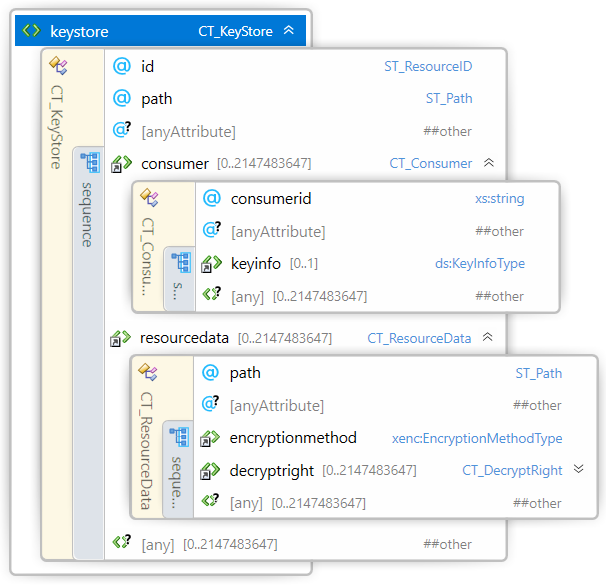
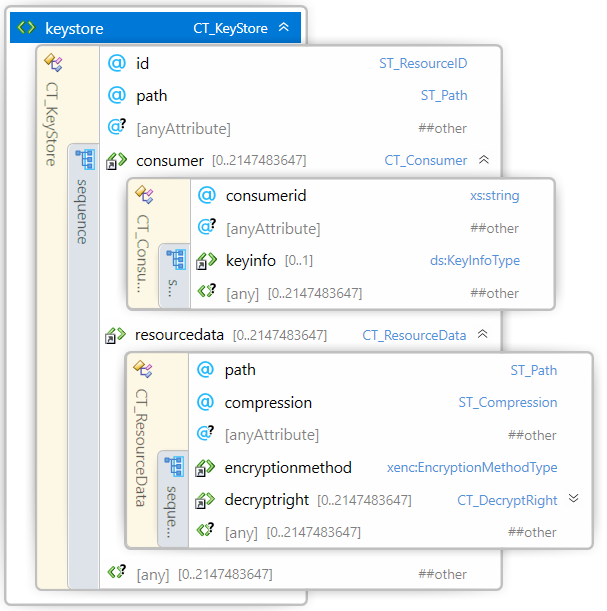
Added compression

Changed region(s): [[0.0, 0.0, 1.0, 1.0]]

diff --git a/3MF Secure Content.md b/3MF Secure Content.md
@@ -13,7 +13,7 @@
 
 
 
-| **Version** | 0.61 |
+| **Version** | 0.62 |
 | --- | --- |
 | **Status** | Draft |
 
@@ -212,17 +212,22 @@ Element **\<resourcedata>**
 | Name   | Type   | Use   | Default   | Annotation |
 | --- | --- | --- | --- | --- |
 | path | **ST\_Path** | required |  | Path to the encrypted resource file. |
+| compression | **ST\_Compression** |  | none | Compression algorithm applied to content before is encrypted. |
 | @anyAttribute | | | | |
 
 The \<resourcedata> element under a \<keystore> element contains the resource specific encryption information for an encrypted resource and the file path to the encrypted content file.
 
 **path** - Path to the encrypted file in the OPC package.
 
+**compression** - Compression algorithm applied before encryption the content to obtain a significant compression ratio.
+
+A producer MAY specify a compression “deflate” so the content is first compressed and then encrypted. When compression is "deflate", a consumer MUST first decrypt and then decompress the content.
+
 Example of a complete \<resourcedata> element for an encrypted resource that can be accessed by two different consumers:
 ```xml
-<resourcedata path=”path to encrypted file1 in package”>
+<resourcedata path=”path to encrypted file1 in package” compression="deflate">
   <encryptionmethod xenc:Algorithm="http://www.w3.org/2009/xmlenc11#aes256-gcm" />  
-  <accessright consumerindex=0>
+  <accessright consumerindex="0">
     <encryptedkey>
       <xenc:EncryptionMethod xenc:Algorithm="http://www.w3.org/2001/04/xmlenc#rsa-oaep-mgf1p" \>
       <xenc:CipherData>
@@ -230,7 +235,7 @@ Example of a complete \<resourcedata> element for an encrypted resource that can
       </xenc:CipherData>
     </encryptedkey>
   </accessright>
-  <accessright consumerindex=1>
+  <accessright consumerindex="1">
     <encryptedkey>
       <xenc:EncryptionMethod xenc:Algorithm="http://www.w3.org/2001/04/xmlenc#rsa-oaep-mgf1p" \>
       <xenc:CipherData>
@@ -240,8 +245,6 @@ Example of a complete \<resourcedata> element for an encrypted resource that can
   </accessright>
 </resourcedata>
 ```
-
-TO REVIEW: Do we need to specify the "xenc" namespace in Algorith and CipherValue? 
 
 ### 2.1.2.1 Encryption Method
 
@@ -367,7 +370,7 @@ See [the 3MF Core Specification glossary](https://github.com/3MFConsortium/spec_
 
 ```xml
 <?xml version="1.0" encoding="UTF-8"?>
-<xs:schema xmlns="http://schemas.microsoft.com/3dmanufacturing/securecontent/2019/04" xmlns:xs="http://www.w3.org/2001/XMLSchema" xmlns:xenc="http://www.w3.org/2001/04/xmlenc#" xmlns:ds="http://www.w3.org/2000/09/xmldsig#" targetNamespace="http://schemas.microsoft.com/3dmanufacturing/securecontent/2019/04" elementFormDefault="unqualified" attributeFormDefault="unqualified" blockDefault="#all">
+<xs:schema xmlns="http://schemas.hp.com/3dmanufacturing/securecontent/2019/04" xmlns:xs="http://www.w3.org/2001/XMLSchema" xmlns:xenc="http://www.w3.org/2001/04/xmlenc#" xmlns:ds="http://www.w3.org/2000/09/xmldsig#" targetNamespace="http://schemas.hp.com/3dmanufacturing/securecontent/2019/04" elementFormDefault="unqualified" attributeFormDefault="unqualified" blockDefault="#all">
   <xs:import namespace="http://www.w3.org/XML/1998/namespace" schemaLocation="http://www.w3.org/2001/xml.xsd"/>
   <xs:import namespace="http://www.w3.org/2001/04/xmlenc#" schemaLocation="https://www.w3.org/TR/xmlenc-core1/xenc-schema.xsd"/>
   <xs:import namespace='http://www.w3.org/2000/09/xmldsig#' schemaLocation='http://www.w3.org/TR/2002/REC-xmldsig-core-20020212/xmldsig-core-schema.xsd'/>
@@ -410,7 +413,7 @@ See [the 3MF Core Specification glossary](https://github.com/3MFConsortium/spec_
   </xs:complexType>
   <xs:complexType name="CT_Consumer">
     <xs:sequence>
-      <xs:element ref="ds:KeyInfo" minOccurs="0"/>
+      <xs:element ref="keyinfo" minOccurs="0"/>
        <xs:any namespace="##other" processContents="lax" minOccurs="0" maxOccurs="2147483647"/>
     </xs:sequence>
     <xs:attribute name="consumerid" type="xs:string"/>
@@ -418,17 +421,17 @@ See [the 3MF Core Specification glossary](https://github.com/3MFConsortium/spec_
   </xs:complexType>
   <xs:complexType name="CT_ResourceData">
     <xs:sequence>
-      <xs:element ref="xenc:EncryptionMethod"/>
+      <xs:element ref="encryptionmethod"/>
       <xs:element ref="decryptright" minOccurs="0" maxOccurs="2147483647"/>
       <xs:any namespace="##other" processContents="lax" minOccurs="0" maxOccurs="2147483647"/>
     </xs:sequence>
     <xs:attribute name="path" type="ST_Path" use="required"/>
+    <xs:attribute name="compression" type="ST_Compression" default="none"/>
     <xs:anyAttribute namespace="##other" processContents="lax"/>
   </xs:complexType>
   <xs:complexType name="CT_DecryptRight">
     <xs:sequence>
-      <xs:element ref="xenc:EncryptionMethod"/>
-      <xs:element ref="xenc:CipherData"/>
+      <xs:element ref="encryptedkey"/>
       <xs:any namespace="##other" processContents="lax" minOccurs="0" maxOccurs="2147483647"/>
     </xs:sequence>
     <xs:attribute name="consumerindex" type="ST_ResourceIndex" use="required"/>
@@ -454,6 +457,12 @@ See [the 3MF Core Specification glossary](https://github.com/3MFConsortium/spec_
       <xs:enumeration value="obfuscated"/>
     </xs:restriction>
   </xs:simpleType>
+  <xs:simpleType name="ST_Compression">
+    <xs:restriction base="xs:string">
+      <xs:enumeration value="none"/>
+      <xs:enumeration value="deflate"/>
+    </xs:restriction>
+  </xs:simpleType>
   <!-- Elements -->
   <xs:element name="resources" type="CT_Resources"/>
   <xs:element name="object" type="CT_Object"/>
@@ -461,6 +470,9 @@ See [the 3MF Core Specification glossary](https://github.com/3MFConsortium/spec_
   <xs:element name="consumer" type="CT_Consumer"/>
   <xs:element name="resourcedata" type="CT_ResourceData"/>
   <xs:element name="decryptright" type="CT_DecryptRight"/>
+  <xs:element name="keyinfo" type="ds:KeyInfoType"/>
+  <xs:element name="encryptionmethod" type="xenc:EncryptionMethodType"/>
+  <xs:element name="encryptedkey" type="xenc:EncryptedKeyType"/>
 </xs:schema>
 ```
 
